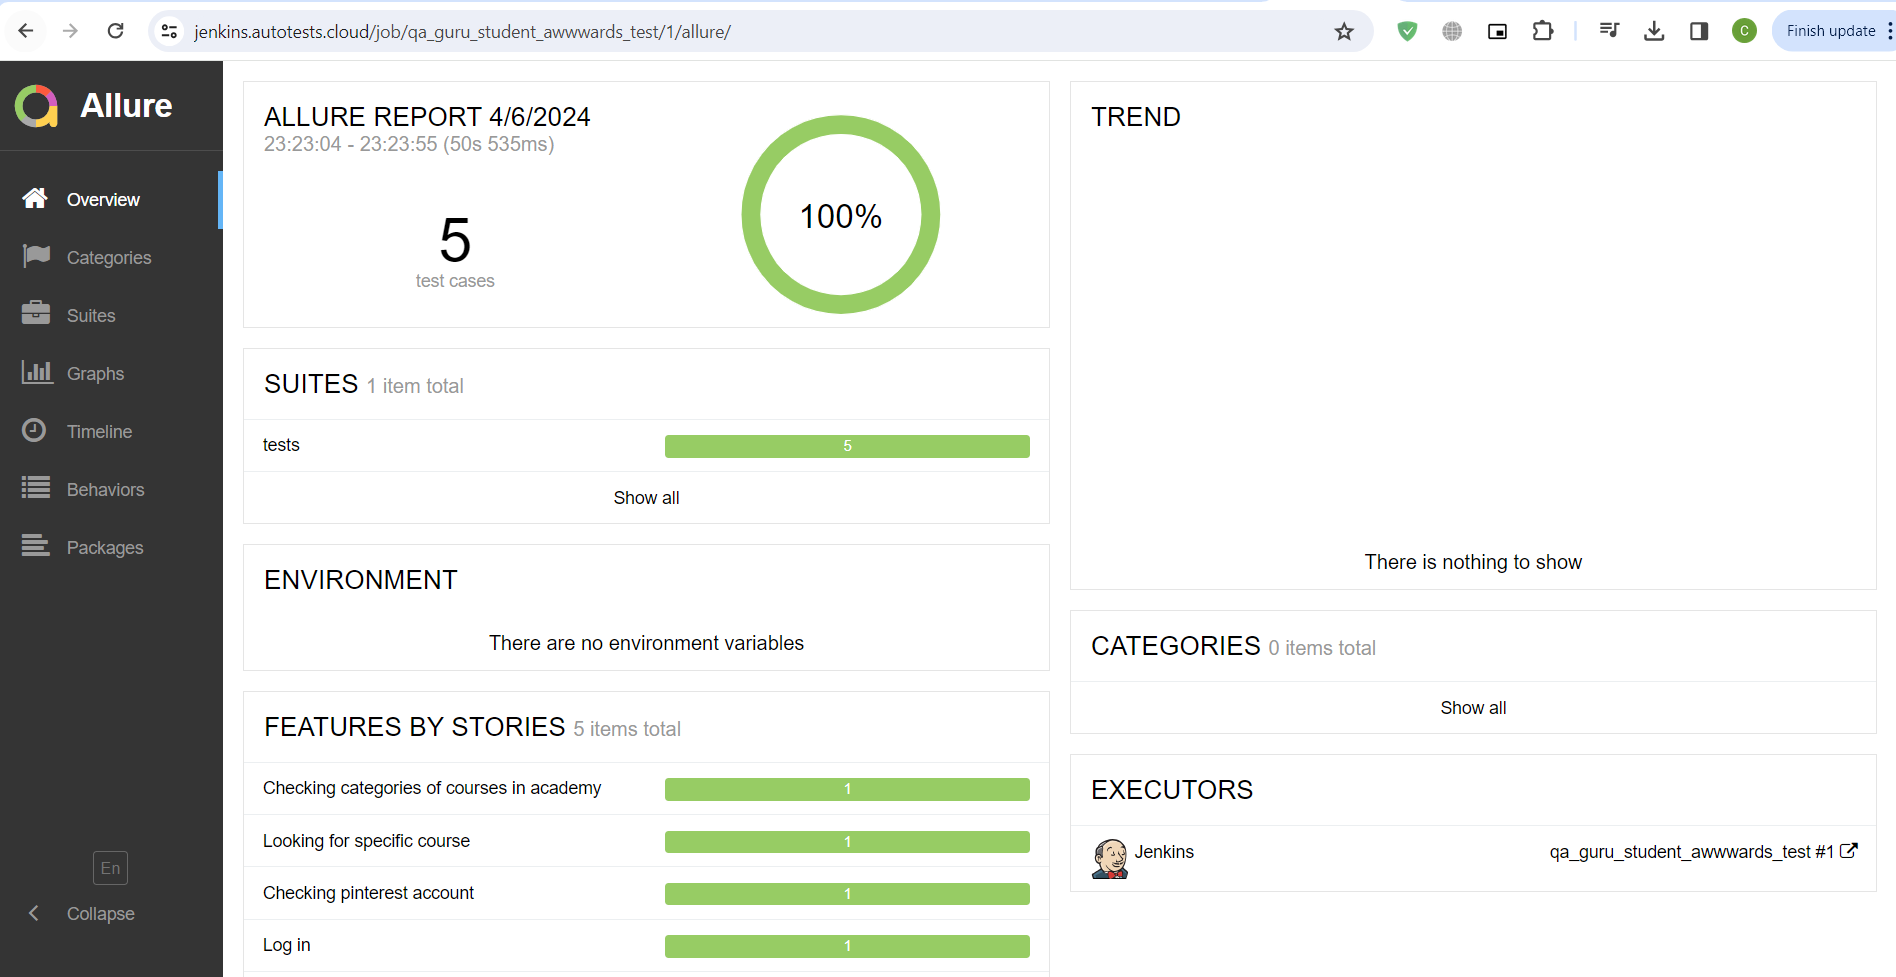
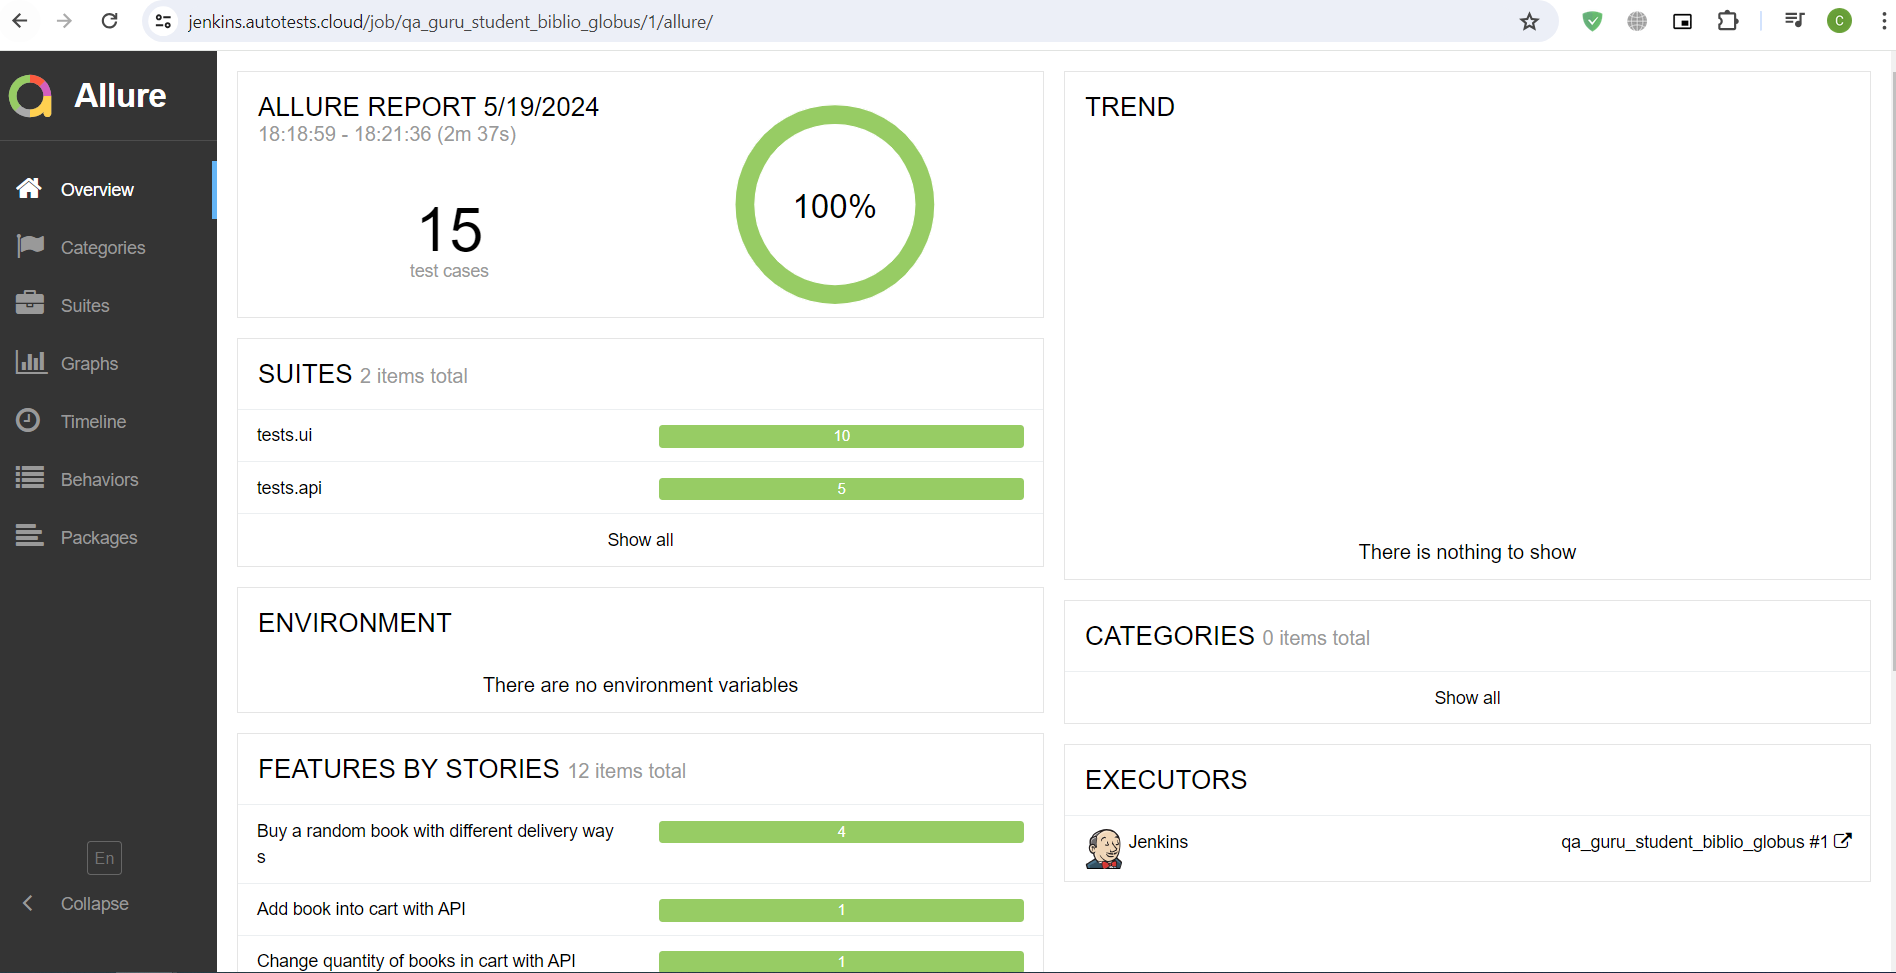
Add some cosmetics

diff --git a/tests/ui/test_profile.py b/tests/ui/test_profile.py
@@ -4,8 +4,10 @@ from biblio_globus_models.pages.profile_page import profile
 test_user_data = {'Surname': 'Куаев', 'Name': 'Тестер', 'DoB': '01.01.2000', 'Sex': 'm',
                   'Phone number': '88005553535', 'Email': 'vasilver.work@yandex.ru'}
 test_new_user_data = {'Surname': 'Куаева', 'Name': 'Тестериня', 'DoB': '01.01.2000', 'Sex': 'm',
-                  'Phone number': '88005553535', 'Email': 'vasilver.work@yandex.ru'}
+                      'Phone number': '88005553535', 'Email': 'vasilver.work@yandex.ru'}
 
+
+@allure.parent_suite('UI')
 @allure.story('Confirm current user info')
 def test_confirm_test_data(browser_managements):
     profile.open('')
@@ -13,6 +15,7 @@ def test_confirm_test_data(browser_managements):
     profile.confirm_user_data(test_user_data)
 
 
+@allure.parent_suite('UI')
 @allure.story('Change current user info')
 def test_change_user_data(browser_managements):
     profile.open('')
@@ -21,4 +24,3 @@ def test_change_user_data(browser_managements):
     profile.confirm_user_data(test_new_user_data)
     profile.change_user_data(test_user_data)
     profile.confirm_user_data(test_user_data)
-

diff --git a/biblio_globus_models/pages/profile_page.py b/biblio_globus_models/pages/profile_page.py
@@ -8,6 +8,7 @@ from biblio_globus_models.resources import file_path
 from tests.conftest import get_cookie
 from urllib.parse import quote
 
+
 def find_delivery_text(delivery_name):
     if delivery_name == 'Self-borrow':
         return 'Подтверждение заказа'
@@ -23,8 +24,6 @@ class ProfilePage:
 
     def open(self, page):
         browser.open('/' + page)
-
-    #  browser.all('.link-underlined').element_by(have.text('Reject all')).click()
 
     def scroll(self, tag):
         browser.element(f'.{tag}').perform(command.js.scroll_into_view)
@@ -70,8 +69,6 @@ class ProfilePage:
         browser.driver.add_cookie({"name": ".ASPXAUTH", "value": cookie})
         browser.open('/')
         return cookie, user_name_cookie
-    #    with step('Confirm success login0'):
-    #        browser.element('#icon_cab3').should(be.visible)
 
     def change_user_data(self, data):
         self.open('customer/profile')
@@ -126,4 +123,3 @@ class ProfilePage:
 
 
 profile = ProfilePage()
-

diff --git a/tests/api/test_cart_api.py b/tests/api/test_cart_api.py
@@ -1,9 +1,12 @@
 import allure
 from biblio_globus_models.pages.api_page import api_profile
+
 book_id = 10988536
 book_name = 'Рассказы из русской истории. Петр I. Империя. Т.2. Книга четвертая.'
 quantity = int(10)
 
+
+@allure.parent_suite('API')
 @allure.story('Add book into cart with API')
 def test_add_book_into_cart_api():
     cookie, user_name_cookie = api_profile.login()
@@ -12,6 +15,7 @@ def test_add_book_into_cart_api():
     api_profile.check_shema(resp.json(), 'add_to_basket')
 
 
+@allure.parent_suite('API')
 @allure.story('Change quantity of books in cart with API')
 def test_change_quantity_of_books_in_cart():
     cookie, user_name_cookie = api_profile.login()

diff --git a/tests/ui/test_buy_recommended_books.py b/tests/ui/test_buy_recommended_books.py
@@ -2,6 +2,7 @@ import allure
 from biblio_globus_models.pages.profile_page import profile
 
 
+@allure.parent_suite('UI')
 @allure.story('Buy a random book with different delivery ways')
 def test_buy_with_different_delivery_ways(browser_managements, delivery_check):
     delivery_name, delivery_type = delivery_check
@@ -13,6 +14,7 @@ def test_buy_with_different_delivery_ways(browser_managements, delivery_check):
     profile.confirm_delivery_type(delivery_name)
 
 
+@allure.parent_suite('UI')
 @allure.story('Buy a random book with a bag')
 def test_buy_book_with_bag(browser_managements):
     profile.open('')

diff --git a/tests/api/test_delivery_api.py b/tests/api/test_delivery_api.py
@@ -7,6 +7,7 @@ region_id = 236
 cities_list = ["Анадырь", "Билибино", "Певек"]
 
 
+@allure.parent_suite('API')
 @allure.story('Check delivery regions with API')
 def test_check_delivery_regions_api():
     cookie, user_name_cookie = api_profile.login()
@@ -17,6 +18,7 @@ def test_check_delivery_regions_api():
     api_profile.check_shema(regions.json(), 'get_regions')
 
 
+@allure.parent_suite('API')
 @allure.story(f'Check delivery cities in {region_id} region with API')
 def test_check_delivery_cities_api():
     cookie, user_name_cookie = api_profile.login()

diff --git a/tests/api/test_login_api.py b/tests/api/test_login_api.py
@@ -1,8 +1,9 @@
 import allure
 from biblio_globus_models.pages.api_page import api_profile
 
+
+@allure.parent_suite('API')
 @allure.story('Login with API')
 def test_login_via_post():
     response = api_profile.login(response_needed=True)
     api_profile.check_status_code(response.status_code, login=True)
-

diff --git a/tests/ui/test_media_center.py b/tests/ui/test_media_center.py
@@ -2,6 +2,7 @@ import allure
 from biblio_globus_models.pages.profile_page import profile
 
 
+@allure.parent_suite('UI')
 @allure.story('Check media-center announcement')
 def test_media_center_announcement(browser_managements):
     profile.open('')

diff --git a/tests/ui/test_catalogue.py b/tests/ui/test_catalogue.py
@@ -2,6 +2,7 @@ import allure
 from biblio_globus_models.pages.profile_page import profile
 
 
+@allure.parent_suite('UI')
 @allure.story('Checking categories in catalogue')
 def test_catalogue(browser_managements):
     profile.open('')

diff --git a/tests/ui/test_loading_contract_file.py b/tests/ui/test_loading_contract_file.py
@@ -2,6 +2,7 @@ import allure
 from biblio_globus_models.pages.profile_page import profile
 
 
+@allure.parent_suite('UI')
 @allure.story('Check contract file')
 def test_contract_file(browser_managements):
     profile.open('')

diff --git a/biblio_globus_models/pages/api_page.py b/biblio_globus_models/pages/api_page.py
@@ -112,6 +112,7 @@ class ApiPage:
 
 api_profile = ApiPage()
 
+
 def response_logging(response):
     logging.info("Request: " + response.request.url)
     if response.request.body:

diff --git a/README.md b/README.md
@@ -1,27 +1,28 @@
-# Тестирование сайта <a target="_blank" href="https://www.awwwards.com/">Awwwards.com</a>
+# Тестирование сайта <a target="_blank" href="https://www.biblio-globus.ru/">Biblio-globus.ru</a>
 
 ![main page screenshot](resources/pics/main_page.png)
 
 ---
 ### Проверки, реализованные в автотестах
 1. Вход существующего пользователя.
-2. Отображение страны пользователя в его профиле.
-3. Сверка доступных категорий курсов.
-4. Поиск курса.
-5. Ссылка на аккаунт Pinterest.
+2. Добавление различной продукции в корзину.
+3. Проверка доступных способов доставки.
+4. Переход на страницу анонсированного события.
+5. Скачивание и сверка файла договора.
+6. Правильность работы основных API запросов сайта.
 
 ---
 
 ### Используемые инструменты
-<img title="Python" src="pics/icons/python.svg" height="40" width="40"/> <img title="Pytest" src="pics/icons/pytest.svg" height="40" width="40"/> <img title="Allure Report" src="pics/icons/allure_report.png" height="40" width="40"/> <img title="GitHub" src="pics/icons/github.svg" height="40" width="40"/> <img title="Selenoid" src="pics/icons/selenoid.png" height="40" width="40"/> <img title="Selene" src="pics/icons/selene.png" height="40" width="40"/> <img title="Pycharm" src="pics/icons/pycharm-original.svg" height="40" width="40"/> <img title="Telegram" src="pics/icons/telegram.png" height="40" width="40"/> <img title="Jenkins" src="pics/icons/jenkins-original.svg" height="40" width="40"/>
+<img title="Python" src="resources/pics/icons/python.svg" height="40" width="40"/> <img title="Pytest" src="resources/pics/icons/pytest.svg" height="40" width="40"/> <img title="Allure Report" src="resources/pics/icons/allure_report.png" height="40" width="40"/> <img title="GitHub" src="resources/pics/icons/github.svg" height="40" width="40"/> <img title="Selenoid" src="resources/pics/icons/selenoid.png" height="40" width="40"/> <img title="Selene" src="resources/pics/icons/selene.png" height="40" width="40"/> <img title="Pycharm" src="resources/pics/icons/pycharm-original.svg" height="40" width="40"/> <img title="Telegram" src="resources/pics/icons/telegram.png" height="40" width="40"/> <img title="Jenkins" src="resources/pics/icons/jenkins-original.svg" height="40" width="40"/> <img title="Jira" src="resources/pics/icons/jira.svg" height="40" width="40"/>
 
 ---
 
 ### Запуск автотестов осуществляется с помощью Jenkins
-> [Ссылка на сборку в Jenkins](https://jenkins.autotests.cloud/job/qa_guru_student_awwwards_test/)
+> [Ссылка на сборку в Jenkins](https://jenkins.autotests.cloud/job/qa_guru_student_biblio_globus/)
 
 #### Для запуска автотестов в Jenkins
-1. Открыть [задачу в Jenkins](https://jenkins.autotests.cloud/job/qa_guru_student_awwwards_test/)
+1. Открыть [задачу в Jenkins](https://jenkins.autotests.cloud/job/qa_guru_student_biblio_globus/)
 
 ![jenkins job main page](resources/pics/jenkins_view.png)
 
